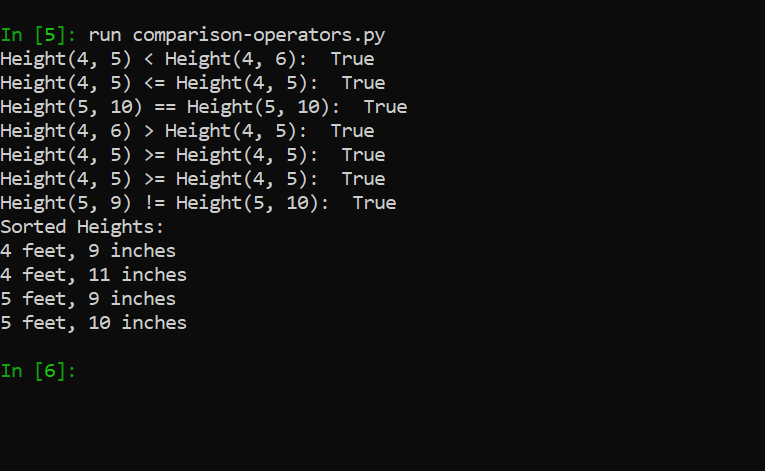
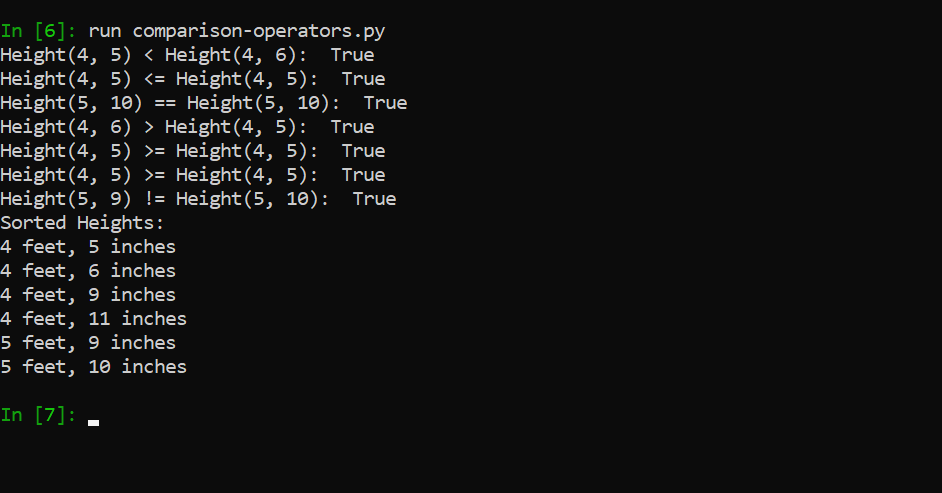
Updated comparison-operators

Changed region(s): [[0.0, 0.0297, 0.5412, 0.862]]

diff --git a/Achievement-1/Exercise1.5/1.5PracticeTask3/comparison-operators.py b/Achievement-1/Exercise1.5/1.5PracticeTask3/comparison-operators.py
@@ -61,6 +61,8 @@ print("Height(5, 9) != Height(5, 10): ", Height(5, 9) != Height(5, 10))
 
 # Creating a list of Height objects
 heights = [
+    Height(4, 5),
+    Height(4, 6),
     Height(5, 9),
     Height(4, 11),
     Height(5, 10),
